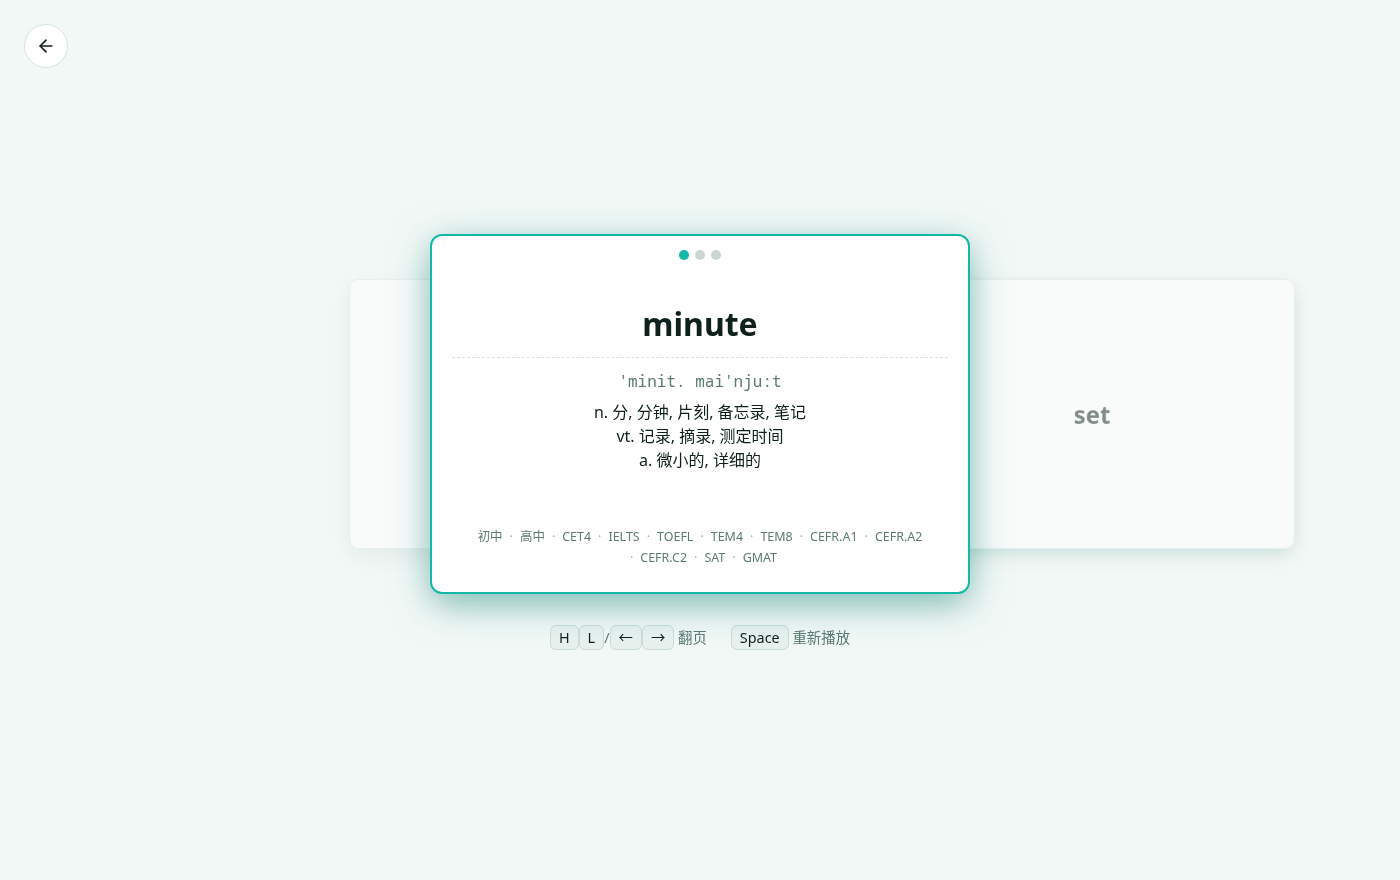
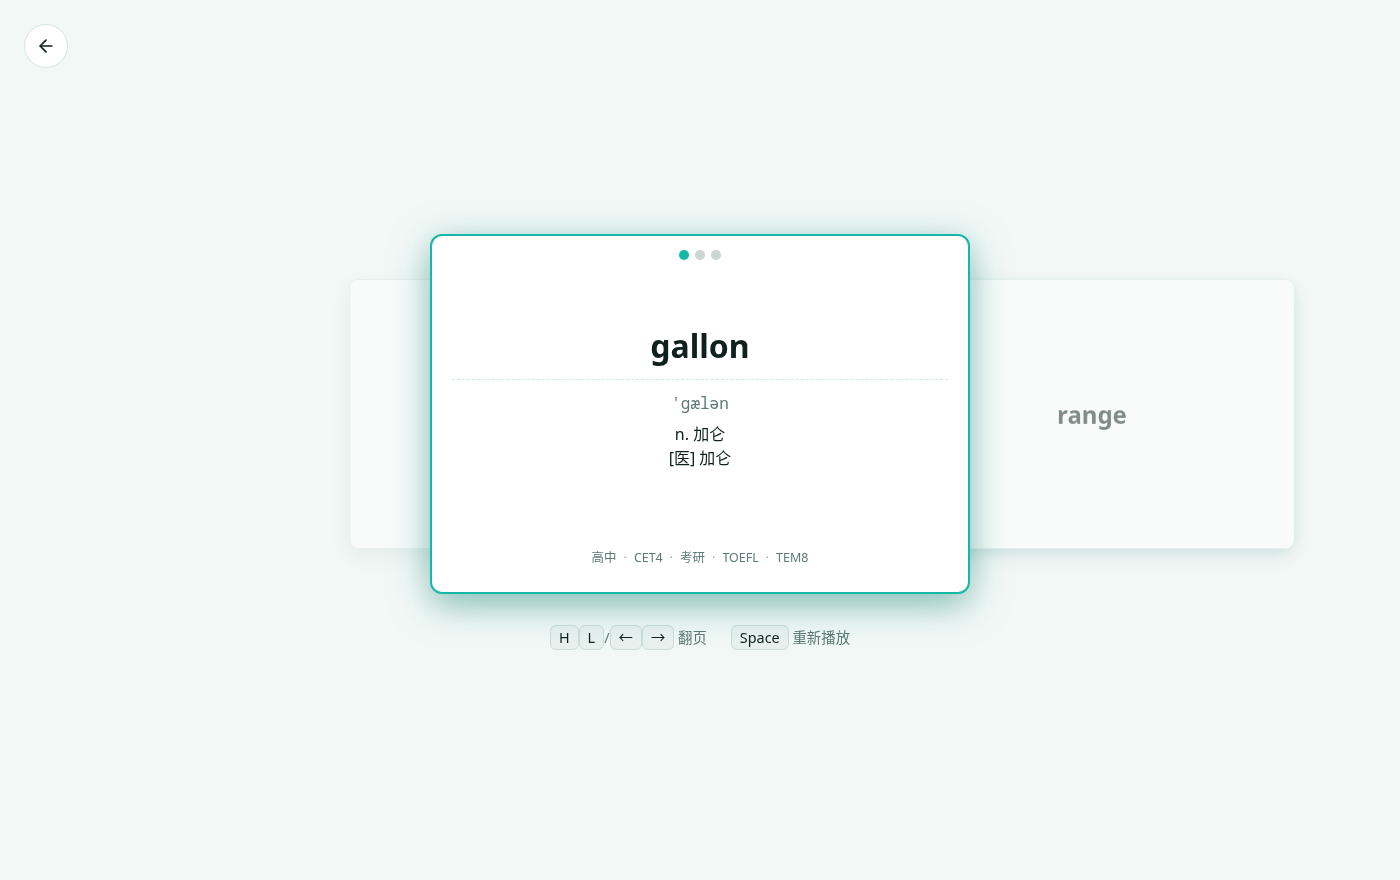
style: 复制的反馈改到词行内，hover 行做浮起效果
- 去掉顶部「已复制」浮层，改为在该词行最右边显示绿色小字，1.2s 消失
- hover 词行：绿条 + 推出当前词 + 浮起（底色 + 阴影）
- 亮色下词表底色改极浅青灰(--bg)，白行 hover 才浮得起来；暗色不动
- 行浮起效果做成 --row-* 变量，明暗分别调
- 刷新 docs 截图

diff --git a/src/index.css b/src/index.css
@@ -26,6 +26,12 @@
   --kbd-border: #cbded9;
   --dot-empty: #cbd5d2;
   --on-accent: #ffffff;
+
+  /* hover 词行的浮起效果 */
+  --row-hover-bg: var(--card-active);
+  --row-hover-shadow: 0 8px 18px -14px rgba(15, 40, 35, 0.18);
+  /* 词表底色：亮色用极浅青灰，白行 hover 时才浮得起来 */
+  --list-bg: var(--bg);
 }
 
 /* 手动暗色：强制 */
@@ -50,6 +56,11 @@
   --kbd-border: #334641;
   --dot-empty: #46524f;
   --on-accent: #06221e;
+
+  --row-hover-bg: var(--card-active);
+  --row-hover-shadow: 0 10px 24px -12px rgba(0, 0, 0, 0.6);
+  /* 暗色词表保持原样 */
+  --list-bg: var(--card);
 }
 
 /* 手动亮色：强制（变量沿用 :root 默认，只锁 color-scheme） */
@@ -638,12 +649,6 @@ kbd {
   align-items: stretch;
 }
 
-/* 词书弹窗的定位锚：弹窗多大它就多大，便于把提示贴在弹窗上方 */
-.modal-anchor {
-  position: relative;
-  width: min(900px, 100%);
-}
-
 .book-modal .modal-title {
   text-align: center;
 }
@@ -676,7 +681,7 @@ kbd {
   padding: 8px;
   border: 1px solid var(--border);
   border-radius: 12px;
-  background: var(--card);
+  background: var(--list-bg);
   scrollbar-width: none;
 }
 
@@ -688,7 +693,10 @@ kbd {
 
 .word-row {
   position: relative;
-  display: block;
+  display: flex;
+  align-items: center;
+  justify-content: space-between;
+  gap: 8px;
   width: 100%;
   padding: 7px 10px 7px 20px;
   border: 0;
@@ -701,6 +709,16 @@ kbd {
   text-align: left;
   cursor: pointer;
   transition: padding-left 140ms ease;
+}
+
+/* 复制成功：在该行最右边闪一下 */
+.copied-tag {
+  flex: 0 0 auto;
+  font-size: 0.72rem;
+  font-weight: 600;
+  color: var(--accent);
+  white-space: nowrap;
+  animation: fade-in 160ms ease-out;
 }
 
 /* 左侧绿色小竖条：hover 时出现在「其他词首字母」的位置 */
@@ -718,9 +736,12 @@ kbd {
   transition: opacity 140ms ease;
 }
 
-/* hover：绿条顶在原来首字母的位置，当前词被推出去 */
+/* hover：绿条顶在原来首字母的位置，当前词被推出去，并浮起一点 */
 .word-row:hover {
   padding-left: 32px;
+  background: var(--row-hover-bg);
+  box-shadow: var(--row-hover-shadow);
+  z-index: 1;
 }
 
 .word-row:hover::before {
@@ -758,20 +779,6 @@ kbd {
 .book-empty {
   margin: 8px;
   color: var(--muted);
-}
-
-/* 点击词复制的提示：以弹窗为参照，贴在弹窗上方 */
-.copy-toast {
-  position: absolute;
-  left: 50%;
-  bottom: calc(100% + 28px);
-  transform: translateX(-50%);
-  z-index: 100;
-  padding: 9px 33px;
-  font-size: 0.79rem;
-  cursor: default;
-  pointer-events: none;
-  animation: fade-in 160ms ease-out;
 }
 
 @keyframes fade-in {

diff --git a/src/pages/home/BookDialog.tsx b/src/pages/home/BookDialog.tsx
@@ -108,17 +108,13 @@ export default function BookDialog({ book, onClose }: Props) {
 
   return (
     <div className="modal-backdrop" onClick={onClose}>
-      <div className="modal-anchor">
-        {copied && (
-          <div className="btn btn-primary copy-toast">已复制 {copied}</div>
-        )}
-        <div
-          className="modal book-modal"
-          role="dialog"
-          aria-modal="true"
-          aria-label={book.name}
-          onClick={(e) => e.stopPropagation()}
-        >
+      <div
+        className="modal book-modal"
+        role="dialog"
+        aria-modal="true"
+        aria-label={book.name}
+        onClick={(e) => e.stopPropagation()}
+      >
         <button
           type="button"
           className="icon-btn modal-close"
@@ -162,6 +158,9 @@ export default function BookDialog({ book, onClose }: Props) {
                   title="点击复制"
                 >
                   {words[i].word}
+                  {copied === words[i].word && (
+                    <span className="copied-tag">已复制</span>
+                  )}
                 </button>
               ))
             )}
@@ -204,7 +203,6 @@ export default function BookDialog({ book, onClose }: Props) {
             </div>
           </aside>
         </div>
-      </div>
       </div>
     </div>
   )
